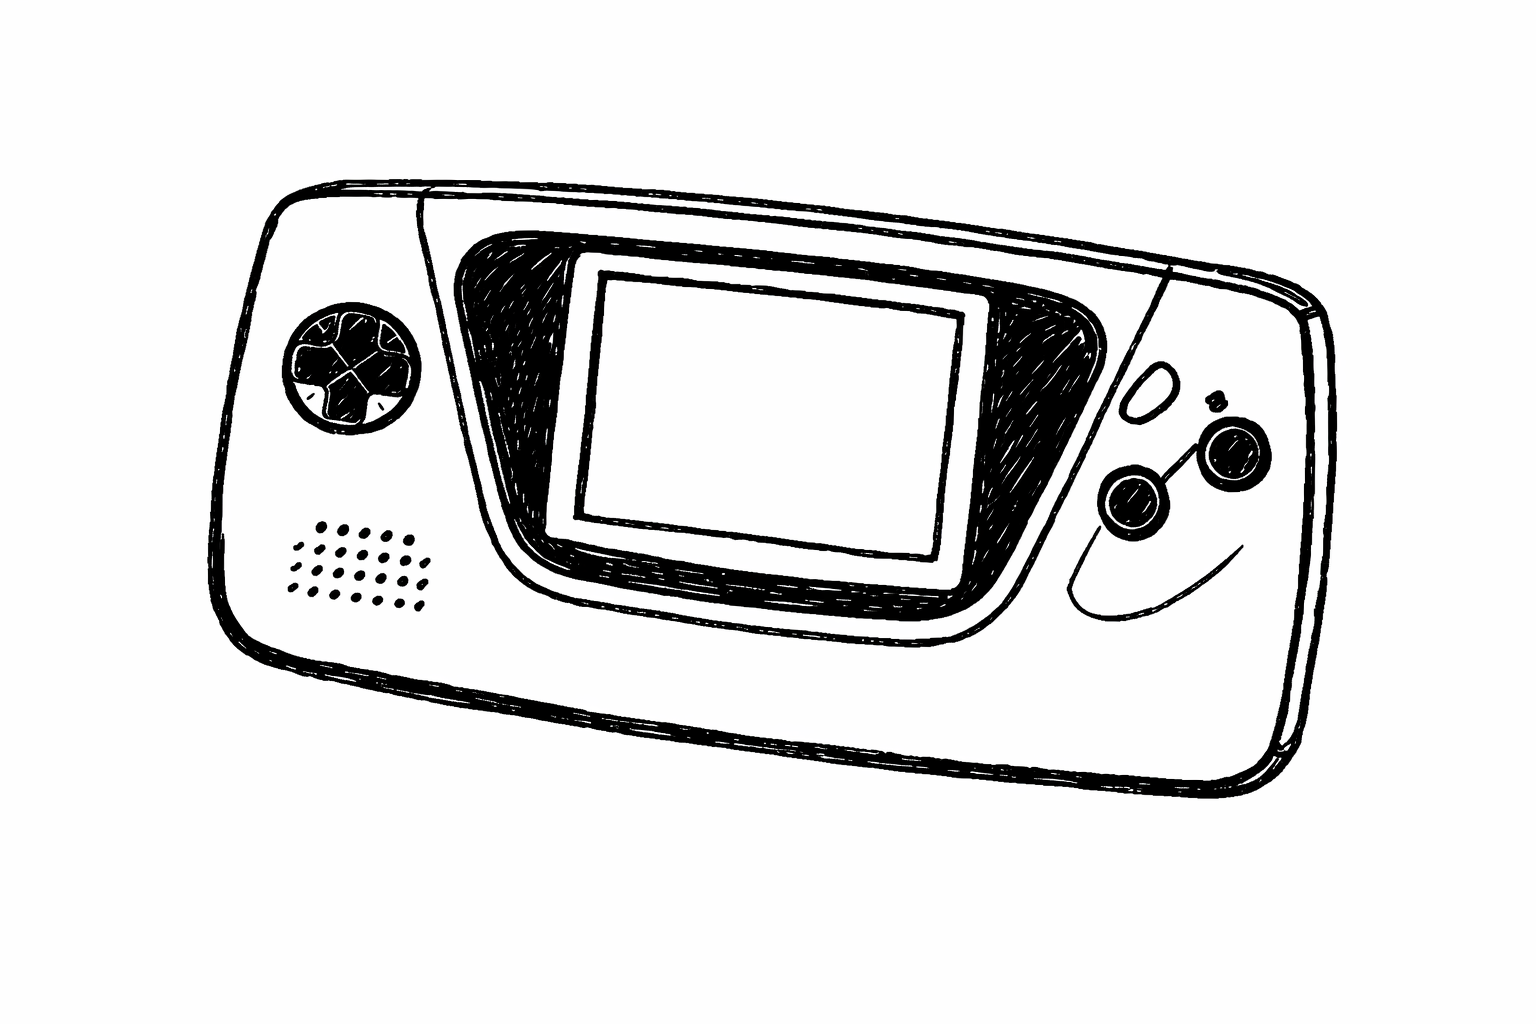
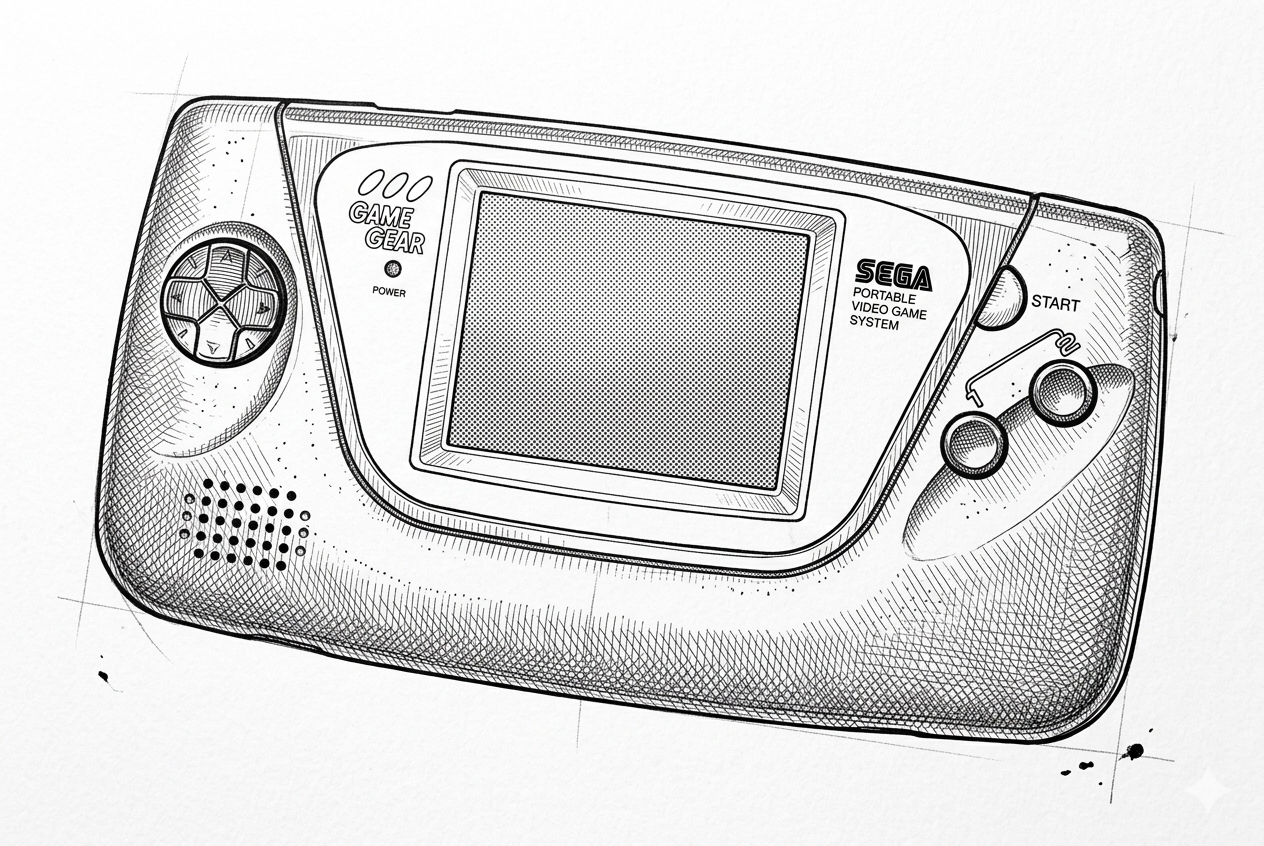
fix: prevent multiple channels with same number being used. fix: pattern grid shown on first time load chore: updated console drawings

diff --git a/packages/engine/tests/parser.channel-duplicate.test.ts b/packages/engine/tests/parser.channel-duplicate.test.ts
@@ -1,0 +1,90 @@
+import { parse } from '../src/parser';
+
+describe('parser: duplicate channel ID detection', () => {
+  test('emits error diagnostic for duplicate channel ID', () => {
+    const src = `
+      chip gameboy
+      bpm 120
+      inst lead type=pulse1 duty=50 env=gb:12,down,1
+      pat melody = C4 E4 G4
+      channel 1 => inst lead seq melody
+      channel 1 => inst lead seq melody
+    `;
+    const ast = parse(src);
+    const errors = (ast.diagnostics ?? []).filter(d => d.level === 'error');
+    expect(errors.some(e => e.message.includes('Duplicate channel 1'))).toBe(true);
+  });
+
+  test('deduplicates channels array, keeping only first occurrence', () => {
+    const src = `
+      chip gameboy
+      bpm 120
+      inst lead type=pulse1 duty=50 env=gb:12,down,1
+      pat melody = C4 E4 G4
+      channel 1 => inst lead seq melody
+      channel 1 => inst lead seq melody
+    `;
+    const ast = parse(src);
+    // Only one channel 1 should be in the array
+    const ch1 = ast.channels.filter(c => c.id === 1);
+    expect(ch1).toHaveLength(1);
+  });
+
+  test('emits one error per extra duplicate (three declarations = one error)', () => {
+    const src = `
+      chip gameboy
+      bpm 120
+      inst lead type=pulse1 duty=50 env=gb:12,down,1
+      pat melody = C4 E4 G4
+      channel 1 => inst lead seq melody
+      channel 1 => inst lead seq melody
+      channel 1 => inst lead seq melody
+    `;
+    const ast = parse(src);
+    const dupErrors = (ast.diagnostics ?? []).filter(
+      d => d.level === 'error' && d.message.includes('Duplicate channel 1')
+    );
+    expect(dupErrors).toHaveLength(2);
+    // Still only one channel 1 in the array
+    expect(ast.channels.filter(c => c.id === 1)).toHaveLength(1);
+  });
+
+  test('does not emit error when all channel IDs are unique', () => {
+    const src = `
+      chip gameboy
+      bpm 120
+      inst lead type=pulse1 duty=50 env=gb:12,down,1
+      inst bass type=pulse2 duty=25 env=gb:10,down,1
+      pat melody = C4 E4 G4
+      channel 1 => inst lead seq melody
+      channel 2 => inst bass seq melody
+    `;
+    const ast = parse(src);
+    const dupErrors = (ast.diagnostics ?? []).filter(
+      d => d.level === 'error' && d.message.includes('Duplicate channel')
+    );
+    expect(dupErrors).toHaveLength(0);
+    expect(ast.channels).toHaveLength(2);
+  });
+
+  test('handles duplicate across different channel IDs independently', () => {
+    const src = `
+      chip gameboy
+      bpm 120
+      inst lead type=pulse1 duty=50 env=gb:12,down,1
+      inst bass type=pulse2 duty=25 env=gb:10,down,1
+      pat melody = C4 E4
+      channel 1 => inst lead seq melody
+      channel 2 => inst bass seq melody
+      channel 1 => inst lead seq melody
+      channel 2 => inst bass seq melody
+    `;
+    const ast = parse(src);
+    const dupErrors = (ast.diagnostics ?? []).filter(
+      d => d.level === 'error' && d.message.includes('Duplicate channel')
+    );
+    // One error for channel 1 duplicate, one for channel 2 duplicate
+    expect(dupErrors).toHaveLength(2);
+    expect(ast.channels).toHaveLength(2);
+  });
+});

diff --git a/packages/engine/src/parser/peggy/index.ts b/packages/engine/src/parser/peggy/index.ts
@@ -823,6 +823,41 @@ export function parseWithPeggy(source: string): ParseResult {
     }
   }
 
+  // Channel validation: detect and report duplicate channel IDs, then deduplicate
+  {
+    const channelIdsSeen = new Set<number>();
+    const duplicateChannelIds = new Set<number>();
+    for (const ch of channels) {
+      if (channelIdsSeen.has(ch.id)) {
+        duplicateChannelIds.add(ch.id);
+      } else {
+        channelIdsSeen.add(ch.id);
+      }
+    }
+    if (duplicateChannelIds.size > 0) {
+      // Emit an error for each duplicate occurrence (all after the first)
+      const seenForError = new Set<number>();
+      for (const ch of channels) {
+        if (duplicateChannelIds.has(ch.id)) {
+          if (seenForError.has(ch.id)) {
+            diag('error', 'parser', `Duplicate channel ${ch.id}: each channel ID may only be declared once. Remove the extra declaration.`, ch.loc);
+          } else {
+            seenForError.add(ch.id);
+          }
+        }
+      }
+      // Keep only the first occurrence of each channel ID so downstream panels
+      // don't render multiple controls for the same channel
+      const seen = new Set<number>();
+      const deduped = channels.filter(ch => {
+        if (seen.has(ch.id)) return false;
+        seen.add(ch.id);
+        return true;
+      });
+      channels.splice(0, channels.length, ...deduped);
+    }
+  }
+
   // Channel validation: missing inst, unknown inst reference, missing seq/pat, unknown seq/pat reference
   for (const ch of channels) {
     const chLoc = ch.loc;

diff --git a/apps/web-ui/src/main.ts b/apps/web-ui/src/main.ts
@@ -1499,11 +1499,11 @@ menuBar.seedPanelVisible({
   toolbar:             readPanelVis(StorageKey.PANEL_VIS_TOOLBAR),
   'transport-bar':     readPanelVis(StorageKey.PANEL_VIS_TRANSPORT_BAR),
   'channel-mixer':     readPanelVis(StorageKey.PANEL_VIS_CHANNEL_MIXER),
-  'pattern-grid':      readPanelVis(StorageKey.PANEL_VIS_PATTERN_GRID),
+  'pattern-grid':      readPanelVis(StorageKey.PANEL_VIS_PATTERN_GRID, false),
   'song-visualizer':   readPanelVis(StorageKey.PANEL_VIS_SONG_VISUALIZER, false),
 });
 // Apply initial pattern-grid visibility
-if (!readPanelVis(StorageKey.PANEL_VIS_PATTERN_GRID)) {
+if (!readPanelVis(StorageKey.PANEL_VIS_PATTERN_GRID, false)) {
   patternGridContainer.style.display = 'none';
 }
 

diff --git a/.changeset/cyan-ducks-thank.md b/.changeset/cyan-ducks-thank.md
@@ -1,0 +1,5 @@
+---
+"@beatbax/engine": patch
+---
+
+Fix to prevent multiple channels with the same number being used.
